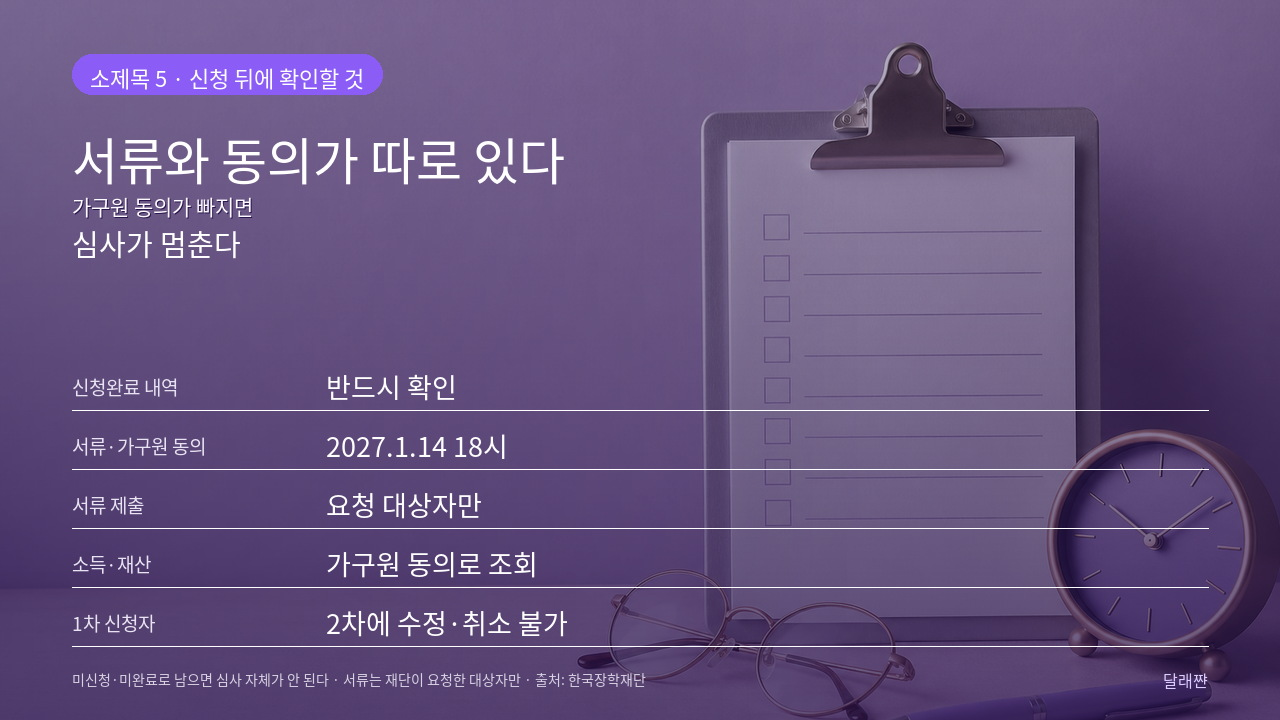
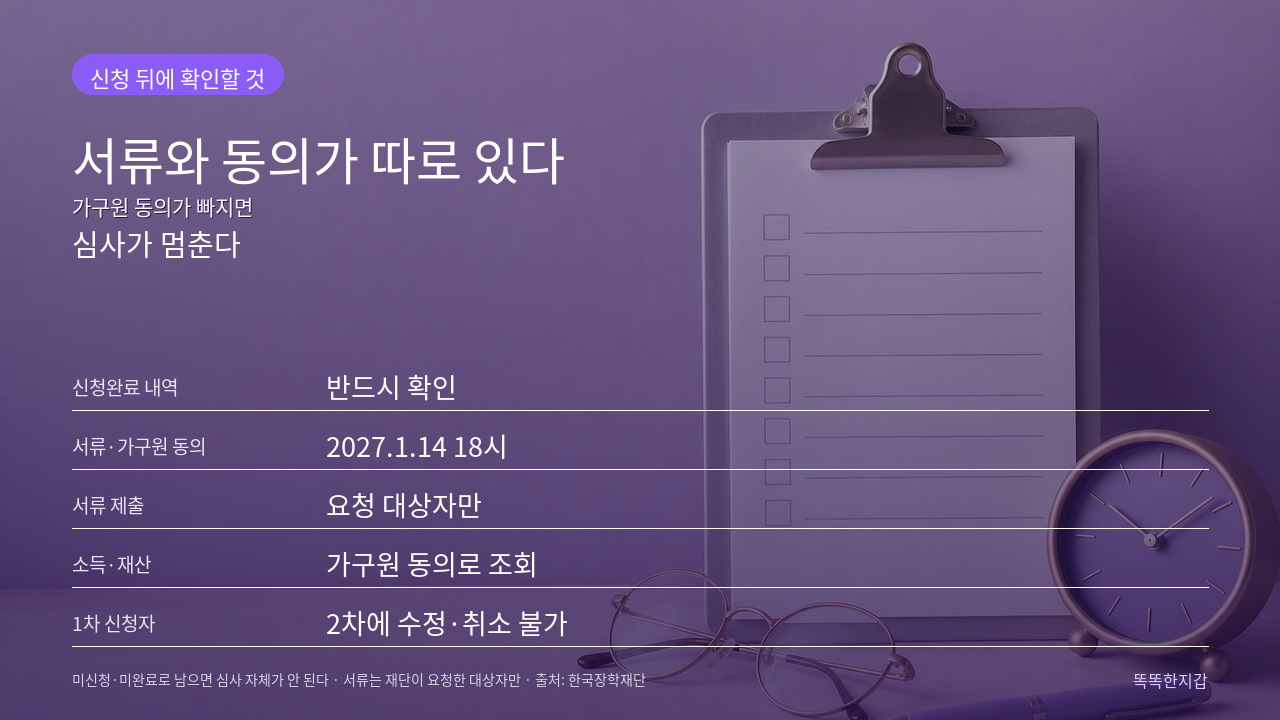
11/26 지원금 v23: 본문 16:9 배지에서 '소제목 N ·' 제거(핵심 라벨만) + 브랜드 '똑똑한지갑'으로 변경 — 이미지 ?v=23

Changed region(s): [[0.0625, 0.0611, 0.3125, 0.1528], [0.875, 0.9167, 0.9375, 0.9778]]

diff --git a/topics-data.js b/topics-data.js
@@ -1,7 +1,7 @@
 window.TOPICS_FALLBACK = {
- "updated": "2026-11-26T19:14:54+09:00",
+ "updated": "2026-11-26T19:21:47+09:00",
  "label": "2026년 11월 넷째 주",
- "version": 22,
+ "version": 23,
  "blogs": [
   {
    "id": "drama",
@@ -9081,39 +9081,39 @@ window.TOPICS_FALLBACK = {
    },
    "images": [
     {
-     "src": "assets/money/kosaf2027-thumb.jpg?v=22",
+     "src": "assets/money/kosaf2027-thumb.jpg?v=23",
      "role": "thumb",
      "label": "대표 썸네일 1:1 · 라 구간 100만원",
      "alt": "2027학년도 1학기 국가장학금 1차 신청 시작, 라 구간 100만원"
     },
     {
-     "src": "assets/money/kosaf2027-body1.jpg?v=22",
+     "src": "assets/money/kosaf2027-body1.jpg?v=23",
      "role": "body",
-     "label": "본문 이미지 1 · 소제목 1 합격 전에 넣어도 된다",
+     "label": "본문 이미지 1 · 합격 전에 넣어도 된다",
      "alt": "국가장학금은 합격 전에도 신청할 수 있다, 신입생·재학생 모두 1차 기간"
     },
     {
-     "src": "assets/money/kosaf2027-body2.jpg?v=22",
+     "src": "assets/money/kosaf2027-body2.jpg?v=23",
      "role": "body",
-     "label": "본문 이미지 2 · 소제목 2 2027년부터 달라지는 구간과 금액",
+     "label": "본문 이미지 2 · 2027년부터 달라지는 구간과 금액",
      "alt": "2027학년도 국가장학금 구간별 연간 최대 금액"
     },
     {
-     "src": "assets/money/kosaf2027-body3.jpg?v=22",
+     "src": "assets/money/kosaf2027-body3.jpg?v=23",
      "role": "body",
-     "label": "본문 이미지 3 · 소제목 3 다자녀와 지방 국립대",
+     "label": "본문 이미지 3 · 다자녀와 지방 국립대",
      "alt": "국가장학금 다자녀 가구별 금액과 지방 국립대 전액 장학금"
     },
     {
-     "src": "assets/money/kosaf2027-body4.jpg?v=22",
+     "src": "assets/money/kosaf2027-body4.jpg?v=23",
      "role": "body",
-     "label": "본문 이미지 4 · 소제목 4 신청은 재단 누리집과 앱에서",
+     "label": "본문 이미지 4 · 신청은 재단 누리집과 앱에서",
      "alt": "국가장학금은 한국장학재단 누리집과 앱에서 24시간 신청, 마감 18시"
     },
     {
-     "src": "assets/money/kosaf2027-body5.jpg?v=22",
+     "src": "assets/money/kosaf2027-body5.jpg?v=23",
      "role": "body",
-     "label": "본문 이미지 5 · 소제목 5 신청 뒤에 확인할 것",
+     "label": "본문 이미지 5 · 신청 뒤에 확인할 것",
      "alt": "국가장학금 신청 뒤 신청완료 내역과 서류·가구원 동의 확인"
     }
    ],
@@ -9265,39 +9265,39 @@ window.TOPICS_FALLBACK = {
    },
    "images": [
     {
-     "src": "assets/money/munhwari-thumb.jpg?v=22",
+     "src": "assets/money/munhwari-thumb.jpg?v=23",
      "role": "thumb",
      "label": "대표 썸네일 1:1 · 발급 11.30 / 사용 12.31",
      "alt": "문화누리카드 발급은 11월 30일, 사용은 12월 31일, 1인당 15만원"
     },
     {
-     "src": "assets/money/munhwari-body1.jpg?v=22",
+     "src": "assets/money/munhwari-body1.jpg?v=23",
      "role": "body",
-     "label": "본문 이미지 1 · 소제목 1 올해는 1인당 15만원이다",
+     "label": "본문 이미지 1 · 올해는 1인당 15만원이다",
      "alt": "2026년 문화누리카드 1인당 연 15만원, 청소년기·준고령기 16만원"
     },
     {
-     "src": "assets/money/munhwari-body2.jpg?v=22",
+     "src": "assets/money/munhwari-body2.jpg?v=23",
      "role": "body",
-     "label": "본문 이미지 2 · 소제목 2 안 쓴 돈은 연말에 국고로 간다",
+     "label": "본문 이미지 2 · 안 쓴 돈은 연말에 국고로 간다",
      "alt": "문화누리카드 미사용 잔액 소멸, 본인 충전금은 소멸 대상 아님"
     },
     {
-     "src": "assets/money/munhwari-body3.jpg?v=22",
+     "src": "assets/money/munhwari-body3.jpg?v=23",
      "role": "body",
-     "label": "본문 이미지 3 · 소제목 3 신청은 주민센터와 누리집, 앱에서",
+     "label": "본문 이미지 3 · 신청은 주민센터와 누리집, 앱에서",
      "alt": "문화누리카드 신청 방법, 주민센터·누리집·앱, 전화는 재충전만"
     },
     {
-     "src": "assets/money/munhwari-body4.jpg?v=22",
+     "src": "assets/money/munhwari-body4.jpg?v=23",
      "role": "body",
-     "label": "본문 이미지 4 · 소제목 4 결제는 가맹점에서만 된다",
+     "label": "본문 이미지 4 · 결제는 가맹점에서만 된다",
      "alt": "문화누리카드 가맹점 3만 6천여 곳, 문화·관광·체육 결제"
     },
     {
-     "src": "assets/money/munhwari-body5.jpg?v=22",
+     "src": "assets/money/munhwari-body5.jpg?v=23",
      "role": "body",
-     "label": "본문 이미지 5 · 소제목 5 12월 31일 전에 확인할 것",
+     "label": "본문 이미지 5 · 12월 31일 전에 확인할 것",
      "alt": "문화누리카드 12월 31일 사용 마감 전 잔액과 가맹점 확인"
     }
    ],
@@ -9449,39 +9449,39 @@ window.TOPICS_FALLBACK = {
    },
    "images": [
     {
-     "src": "assets/money/eitclate-thumb.jpg?v=22",
+     "src": "assets/money/eitclate-thumb.jpg?v=23",
      "role": "thumb",
      "label": "대표 썸네일 1:1 · 12월 1일까지, 산정액의 95%",
      "alt": "놓친 근로·자녀장려금 12월 1일까지, 산정액의 95% 지급"
     },
     {
-     "src": "assets/money/eitclate-body1.jpg?v=22",
+     "src": "assets/money/eitclate-body1.jpg?v=23",
      "role": "body",
-     "label": "본문 이미지 1 · 소제목 1 올해는 안내 대상이 늘었다",
+     "label": "본문 이미지 1 · 올해는 안내 대상이 늘었다",
      "alt": "근로·자녀장려금 기한 후 신청 안내 대상 26만 가구, 1만 가구 추가"
     },
     {
-     "src": "assets/money/eitclate-body2.jpg?v=22",
+     "src": "assets/money/eitclate-body2.jpg?v=23",
      "role": "body",
-     "label": "본문 이미지 2 · 소제목 2 5%가 줄어도 받는 게 낫다",
+     "label": "본문 이미지 2 · 5%가 줄어도 받는 게 낫다",
      "alt": "기한 후 신청은 산정액의 95%, 신청하지 않으면 0원"
     },
     {
-     "src": "assets/money/eitclate-body3.jpg?v=22",
+     "src": "assets/money/eitclate-body3.jpg?v=23",
      "role": "body",
-     "label": "본문 이미지 3 · 소제목 3 얼마를 받을 수 있나",
+     "label": "본문 이미지 3 · 얼마를 받을 수 있나",
      "alt": "근로·자녀장려금 가구 유형별 최대 지급액"
     },
     {
-     "src": "assets/money/eitclate-body4.jpg?v=22",
+     "src": "assets/money/eitclate-body4.jpg?v=23",
      "role": "body",
-     "label": "본문 이미지 4 · 소제목 4 신청은 세 가지 길이 있다",
+     "label": "본문 이미지 4 · 신청은 세 가지 길이 있다",
      "alt": "근로·자녀장려금 신청 방법 QR·ARS 1544-9944·홈택스"
     },
     {
-     "src": "assets/money/eitclate-body5.jpg?v=22",
+     "src": "assets/money/eitclate-body5.jpg?v=23",
      "role": "body",
-     "label": "본문 이미지 5 · 소제목 5 내년부터는 금액이 더 늘어난다",
+     "label": "본문 이미지 5 · 내년부터는 금액이 더 늘어난다",
      "alt": "2027년 귀속분 근로장려금 최대액 확대, 단독 180만·홑벌이 310만·맞벌이 360만원"
     }
    ],
